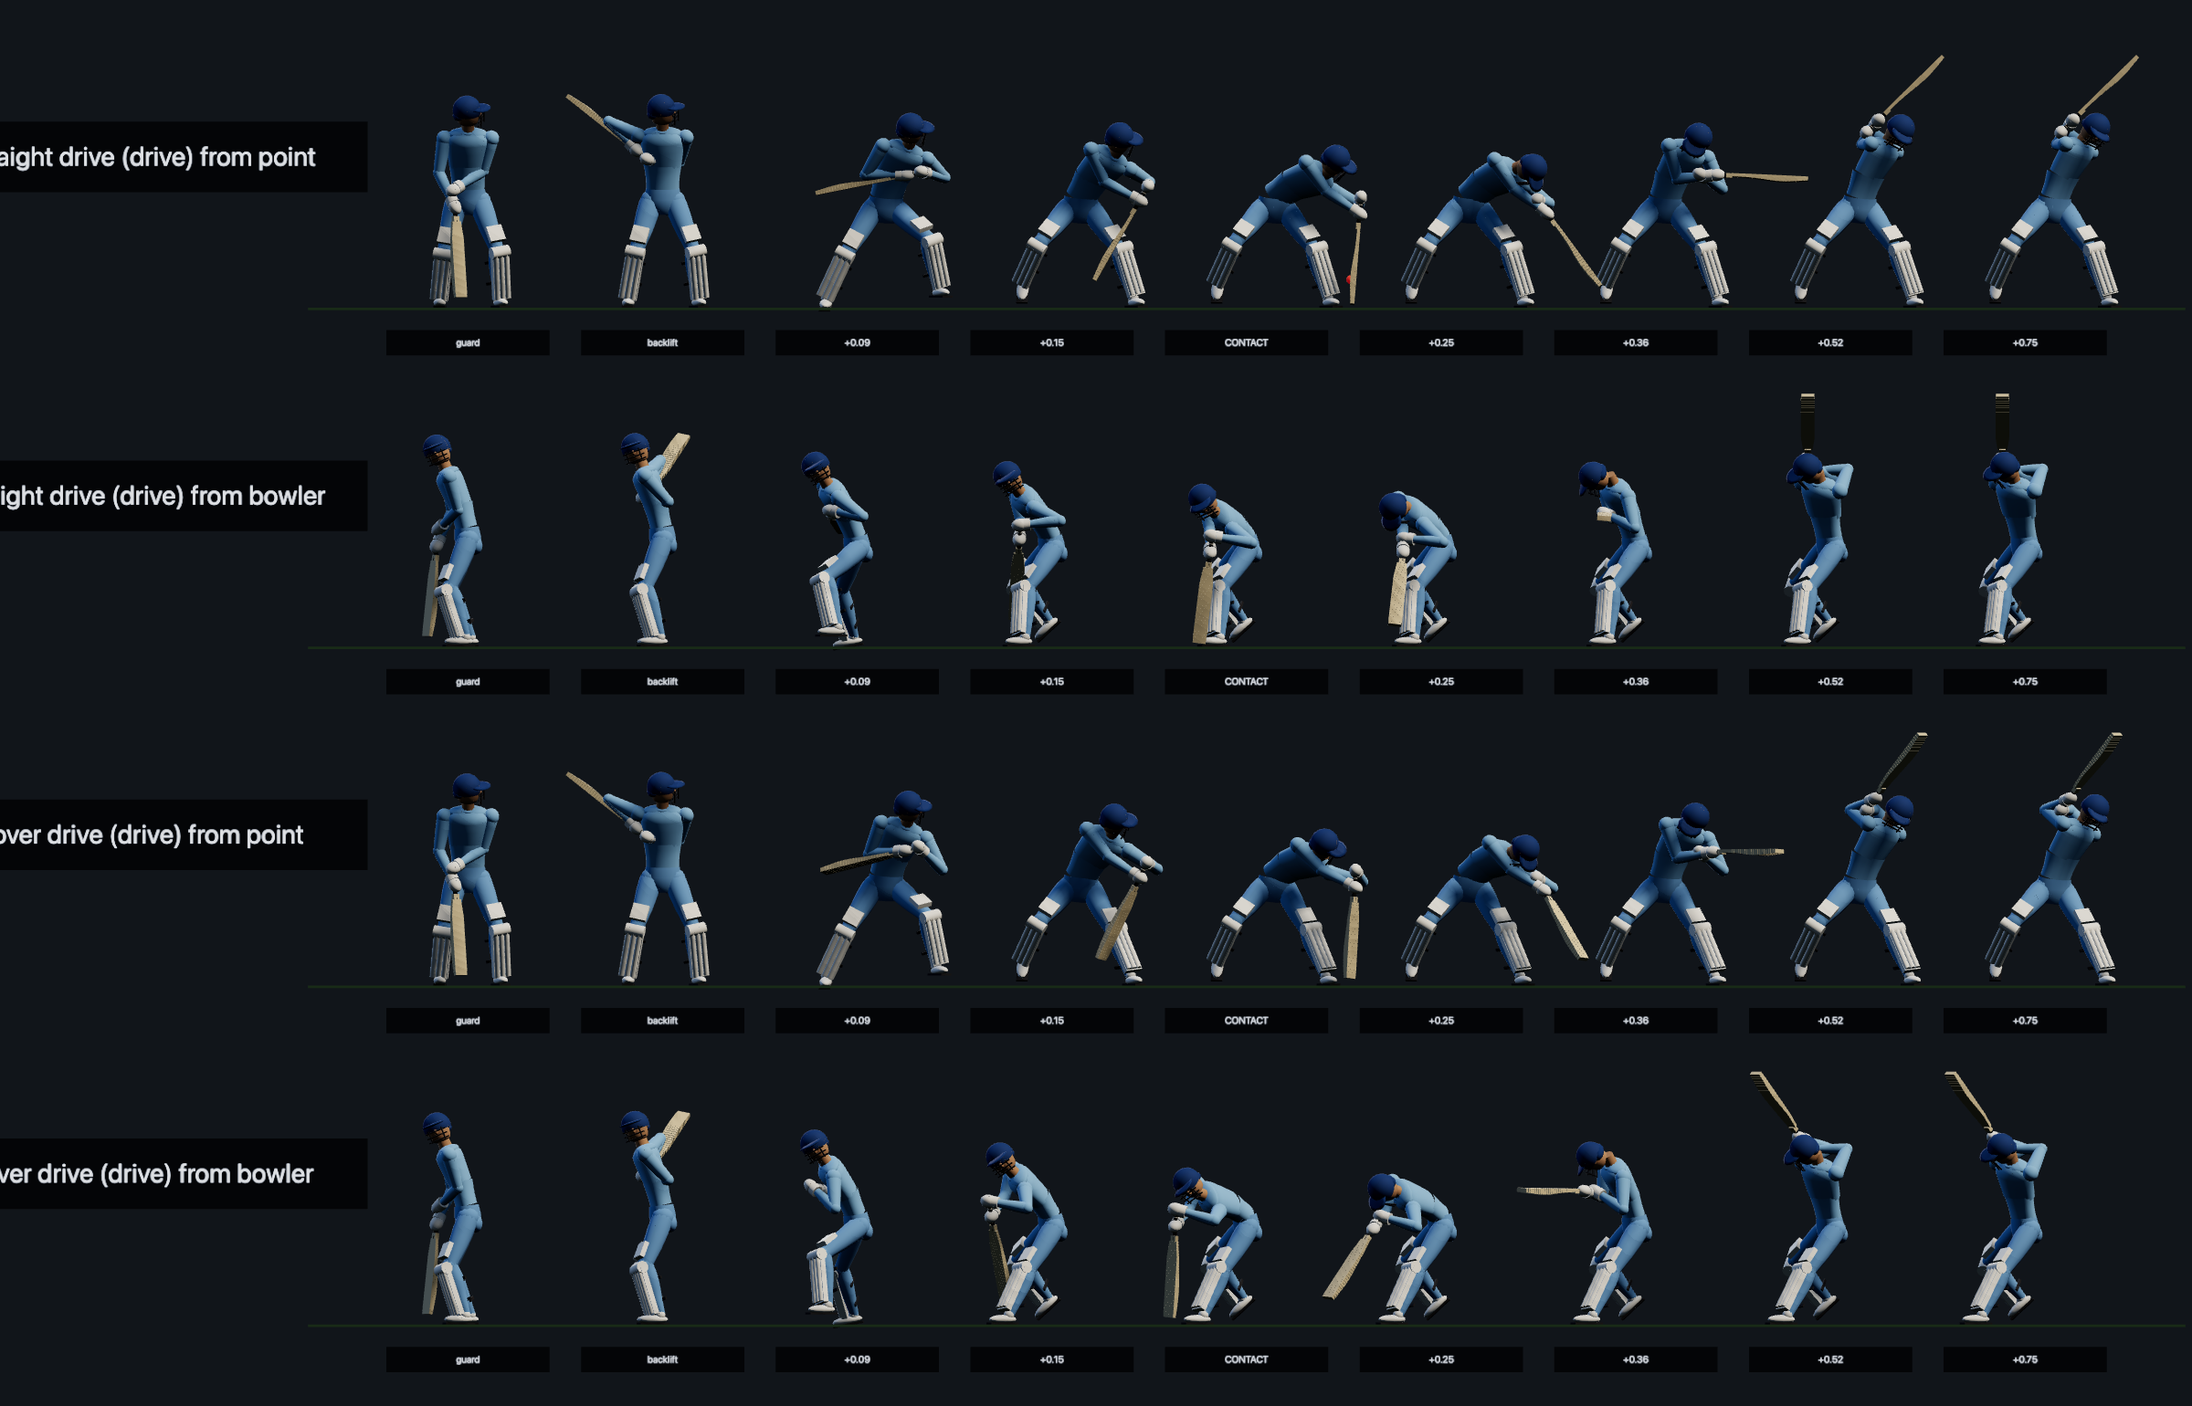
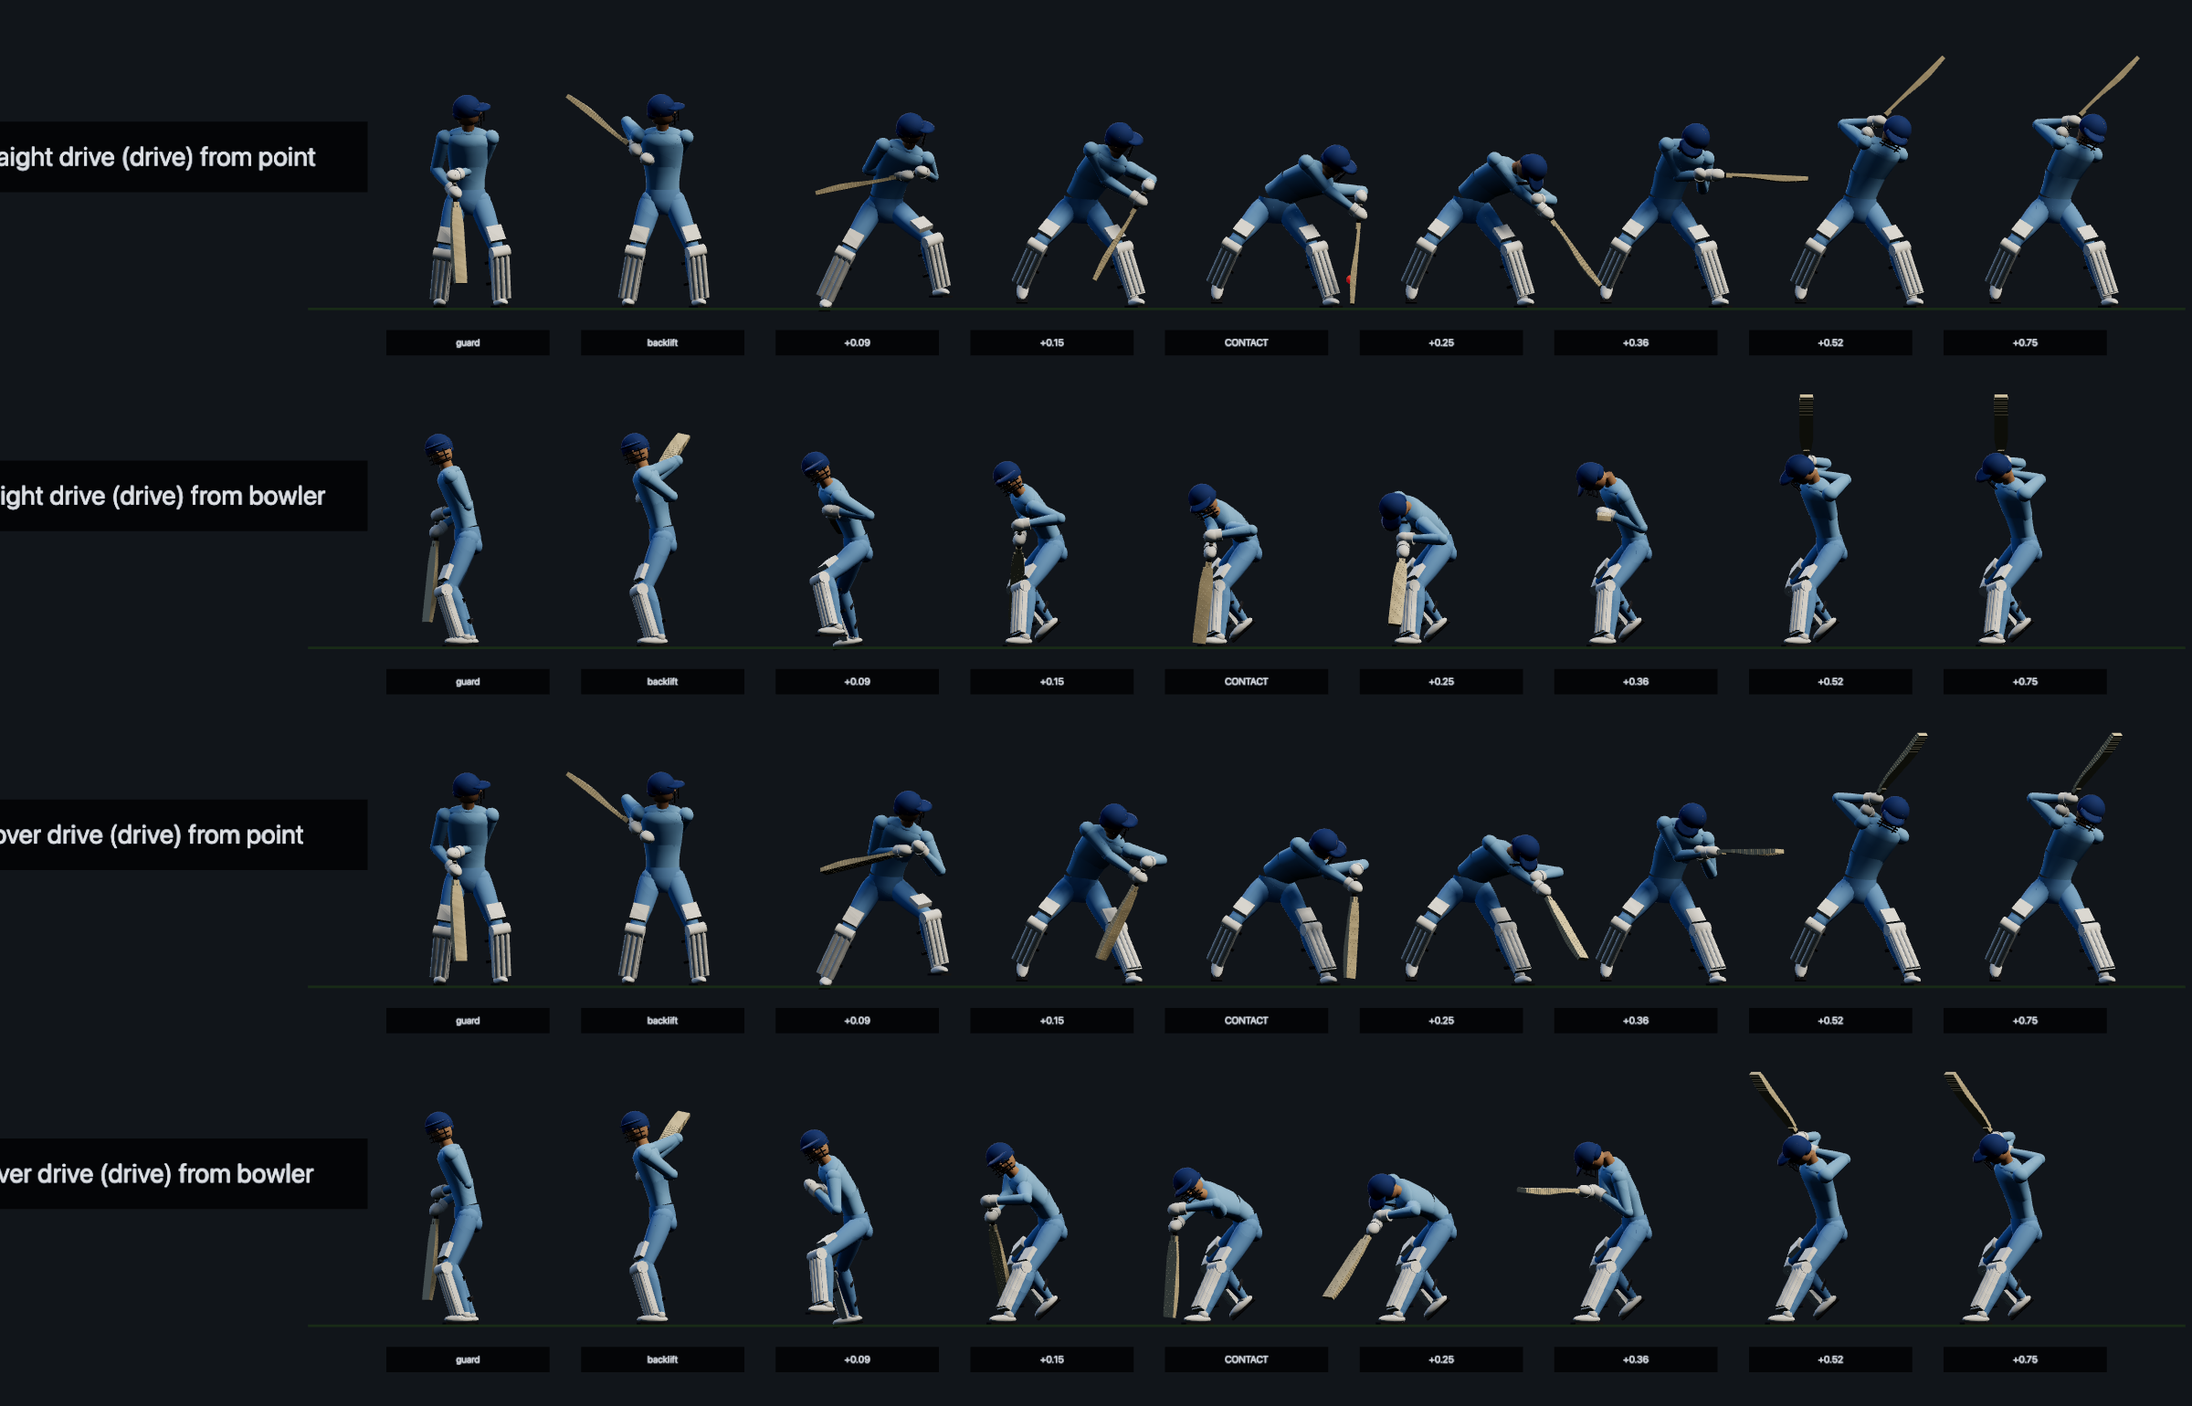
Add leg-side sweeps and scoops with constrained arm motion

diff --git a/lib/game/anim/batsman.ts b/lib/game/anim/batsman.ts
@@ -182,13 +182,20 @@ export interface ShotPlan {
   look: THREE.Vector3;
 }
 
-export type ShotShape = "drive" | "defence" | "punch" | "flick" | "pull" | "cut" | "loft";
+export type ShotShape = "drive" | "defence" | "punch" | "flick" | "pull" | "cut" | "loft" | "sweep" | "slog-sweep" | "scoop";
 
 /** Which family of stroke a plan produces. */
 export function shotShape(plan: ShotPlan): ShotShape {
   const e = plan.exitDirection;
   const high = plan.contact.y > 0.8;
   if (plan.type === "defensive") return "defence";
+  // Low, square leg-side balls need a cross-bat stroke even on the back foot.
+  // A finer aerial shot opens the face in front of the batter instead of
+  // forcing a drive to continue behind the shoulders along the exit direction.
+  if (plan.contact.y <= 0.8 && e > 0.75) {
+    return plan.type === "lofted" ? e > 1.35 ? "scoop" : "slog-sweep" : "sweep";
+  }
+  if (high && e > 0.45) return "pull";
   if (plan.footwork === "back" && high) return e > 0.2 ? "pull" : e < -0.35 ? "cut" : "punch";
   if (plan.footwork === "back") return "punch";
   if (plan.type === "lofted") return "loft";
@@ -206,6 +213,7 @@ export function shotShape(plan: ShotPlan): ShotShape {
  */
 export function shotKeys(from: Pose, plan: ShotPlan): { keys: Key[]; contactT: number; shape: ShotShape } {
   const shape = shotShape(plan);
+  if (shape === "sweep" || shape === "slog-sweep" || shape === "scoop") return sweepKeys(from, plan, shape);
   const d = exitVector(plan.exitDirection);
   const e = plan.exitDirection;
   const Tc = Math.max(0.08, plan.downswing);
@@ -223,8 +231,9 @@ export function shotKeys(from: Pose, plan: ShotPlan): { keys: Key[]; contactT: n
   // Where the feet end up for this shot.
   const feet: PoseValues = {};
   const body: PoseValues = {};
-  const legSide = Math.max(0, e);
-  const offSide = Math.max(0, -e);
+  // Exit angle includes mistiming: it must not become an unlimited spine twist.
+  const legSide = THREE.MathUtils.clamp(e, 0, 1);
+  const offSide = THREE.MathUtils.clamp(-e, 0, 1);
   if (plan.footwork === "front") {
     Object.assign(feet, {
       // Stride toward the pitch of the ball and toward its line.
@@ -251,7 +260,7 @@ export function shotKeys(from: Pose, plan: ShotPlan): { keys: Key[]; contactT: n
     Object.assign(body, {
       pelvisX: 0.14, pelvisY: -0.05, pelvisPitch: 0.08,
       pelvisYaw: shape === "pull" ? 0.95 : shape === "cut" ? -0.1 : 0.1,
-      torsoYaw: shape === "pull" ? 0.75 : shape === "cut" ? -0.35 : 0.1,
+      torsoYaw: shape === "pull" ? 0.5 : shape === "cut" ? -0.35 : 0.1,
       torsoPitch: shape === "cut" ? 0.3 : 0.15,
       torsoRoll: shape === "pull" ? 0.15 : 0,
     });
@@ -338,7 +347,7 @@ export function shotKeys(from: Pose, plan: ShotPlan): { keys: Key[]; contactT: n
       qFollow = qC.clone();
       break;
     case "pull":
-      followGrip = new THREE.Vector3(-0.05, 1.3, 0.22);
+      followGrip = new THREE.Vector3(-0.35, 1.3, -0.18);
       qFollow = new THREE.Quaternion().setFromAxisAngle(_ey, 1.3).multiply(qC);
       break;
     case "cut":
@@ -354,7 +363,7 @@ export function shotKeys(from: Pose, plan: ShotPlan): { keys: Key[]; contactT: n
       qFollow = batQuaternion(yaw, 0, 1.2);
       break;
     case "flick":
-      followGrip = new THREE.Vector3(-0.15, 1.3, 0.15);
+      followGrip = new THREE.Vector3(-0.35, 1.3, -0.18);
       qFollow = batQuaternion(yaw + 0.5, 0, 2.1);
       break;
     default:
@@ -373,8 +382,8 @@ export function shotKeys(from: Pose, plan: ShotPlan): { keys: Key[]; contactT: n
     shape === "defence"
       ? {}
       : {
-          pelvisYaw: (body.pelvisYaw as number) + 0.25,
-          torsoYaw: (body.torsoYaw as number) + 0.45,
+          pelvisYaw: Math.min(1.1, (body.pelvisYaw as number) + 0.2),
+          torsoYaw: Math.min(0.6, (body.torsoYaw as number) + 0.15),
           torsoPitch: (body.torsoPitch as number) - 0.15,
         };
 
@@ -388,6 +397,60 @@ export function shotKeys(from: Pose, plan: ShotPlan): { keys: Key[]; contactT: n
     { t: tFinish, pose: base({ ...feet, ...body, ...openFinish, ...batChannels(followGrip, qFollow), lookW: 0.4 }), hold: true },
   ];
   return { keys, contactT: Tc, shape };
+}
+
+/**
+ * Low leg-side strokes sweep the blade around the front knee. The hands stay
+ * in front of the chest; bat-face angle, not an arm reaching backwards, sends
+ * the ball fine. The scoop lifts from that same crouch; the slog finishes high.
+ */
+function sweepKeys(from: Pose, plan: ShotPlan, shape: "sweep" | "slog-sweep" | "scoop") {
+  const contactT = Math.max(0.08, plan.downswing);
+  const c = plan.contact;
+  const scoop = shape === "scoop";
+  const aerial = shape !== "sweep";
+  const body: PoseValues = {
+    pelvisX: -0.18, pelvisY: -0.24, pelvisPitch: 0.12, pelvisYaw: 0.55,
+    torsoPitch: 0.25, torsoYaw: 0.25, torsoRoll: 0.12,
+    footLX: Math.min(-0.5, c.x + 0.2), footLY: G, footLZ: -0.12, footLYaw: 0.7, footLW: 1,
+    footRX: 0.2, footRY: G + 0.09, footRZ: 0.08, footRYaw: 0.3, footRPitch: -0.7, footRW: 1,
+    lookX: plan.look.x, lookY: plan.look.y, lookZ: plan.look.z, lookW: 1,
+  };
+  const handAnchor = new THREE.Vector3(-0.34, 0.88, -0.35);
+  const face = exitVector(plan.exitDirection);
+  face.y = scoop ? 1.1 : aerial ? 0.5 : -0.12;
+  const qContact = batFromAxes(handAnchor.clone().sub(c), face);
+  const gripContact = gripForSweetSpot(c, qContact);
+  const frontGrip = new THREE.Vector3(-0.42, 1.05, -0.42);
+  const qFront = batOf(from).slerp(qContact, 0.55);
+  // Carry the blade around the front pad without dragging the handle behind it.
+  const after = c.clone().add(new THREE.Vector3(-0.08, aerial ? 0.14 : 0.02, 0.18));
+  const qAfter = batFromAxes(handAnchor.clone().sub(after), face);
+  const finishGrip = new THREE.Vector3(-0.46, aerial ? 1.18 : 0.94, aerial ? -0.38 : -0.24);
+  // Aerial strokes finish with the blade above the hands, clear of the ribs.
+  const qFinish = batFromAxes(new THREE.Vector3(scoop ? -0.15 : -0.4, aerial ? -0.75 : 0.2, -0.7), face);
+  const key = (t: number, grip: THREE.Vector3, q: THREE.Quaternion, weight: number, finish = false): Key => {
+    const pose = copyPose(makePose(), from);
+    // Ease the whole body down with the hands, rather than snapping into a kneel.
+    for (const [name, value] of Object.entries(body)) {
+      const channel = C[name as keyof typeof C];
+      pose[channel] = lerp(from[channel], value as number, weight);
+    }
+    if (finish) setPose(pose, { pelvisYaw: 0.85, torsoYaw: 0.4, lookW: 0.6 });
+    setPose(pose, batChannels(grip, q));
+    return { t, pose };
+  };
+  const follow = contactT + (scoop ? 0.38 : 0.32);
+  const finish = key(follow, finishGrip, qFinish, 1, true);
+  return { shape, contactT, keys: [
+    { t: 0, pose: copyPose(makePose(), from) },
+    key(contactT * 0.48, frontGrip, qFront, 0.55),
+    key(contactT * 0.82, frontGrip.clone().lerp(gripContact, 0.7), qFront.clone().slerp(qContact, 0.7), 0.9),
+    key(contactT, gripContact, qContact, 1),
+    key(contactT + 0.08, gripForSweetSpot(after, qAfter), qAfter, 1),
+    finish,
+    { t: follow + 0.4, pose: copyPose(makePose(), finish.pose), hold: true },
+  ] };
 }
 
 /**
@@ -407,12 +470,29 @@ export function fitToBall(rig: PlayerRig, keys: Key[], contactT: number, contact
   const shifted = [at - 1, at, at + 1].filter((i) => i > 0 && i < keys.length);
   const sweet = new THREE.Vector3();
   let gap = Infinity;
-  for (let iter = 0; iter < 5; iter++) {
+  for (let iter = 0; iter < 12; iter++) {
     applyPose(rig, keys[at].pose);
     sweetSpot(rig, sweet);
     const err = sweet.sub(contact);
     gap = err.length();
     if (gap < 0.02) break;
+    // If a requested handle position lies behind the chest, the arm solver
+    // brings it forward. Re-angle the blade around that reachable grip rather
+    // than asking the spine to twist backwards to restore contact.
+    const oldQ = batOf(keys[at].pose);
+    const actualGrip = rig.bat!.position.clone().addScaledVector(new THREE.Vector3(0, 1, 0).applyQuaternion(rig.bat!.quaternion), GRIP_TOP);
+    const requestedGrip = new THREE.Vector3(keys[at].pose[C.gripX], keys[at].pose[C.gripY], keys[at].pose[C.gripZ]);
+    if (iter >= 3 && actualGrip.distanceTo(requestedGrip) > 0.04) {
+      const q = batFromAxes(actualGrip.sub(contact), new THREE.Vector3(0, 0, -1).applyQuaternion(oldQ));
+      const grip = gripForSweetSpot(contact, q);
+      const delta = grip.clone().sub(requestedGrip);
+      for (const i of shifted) {
+        const p = keys[i].pose;
+        const weight = i === at ? 1 : 0.6;
+        const adjusted = new THREE.Vector3(p[C.gripX], p[C.gripY], p[C.gripZ]).addScaledVector(delta, weight);
+        setPose(p, batChannels(adjusted, batOf(p).slerp(q, weight)));
+      }
+    }
     for (const i of shifted) {
       const p = keys[i].pose;
       // Near keys follow fully; the one before contact half-way, so the hips

diff --git a/lib/game/anim/controllers.test.ts b/lib/game/anim/controllers.test.ts
@@ -3,7 +3,7 @@ import { describe, expect, it } from "vitest";
 import { BATTING_KIT, FIELDING_KIT, makePlayer } from "../assets/kit";
 import type { Footwork, ShotType } from "../input/bindings";
 import { applyPose, C, makePose, sweetSpot } from "./pose";
-import { BatsmanAnimator, CONTACT_X, readyBatPose } from "./batsman";
+import { BatsmanAnimator, CONTACT_X, readyBatPose, shotShape } from "./batsman";
 import { APPROACH, deliveryOrigin, simulateRelease } from "./bowler";
 import { FielderAnimator, SPRINT } from "./fielder";
 import { RunnerAnimator } from "./runner";
@@ -33,6 +33,51 @@ function batsmanInBacklift(footwork: Footwork): BatsmanAnimator {
 }
 
 describe("BatsmanAnimator", () => {
+  it("selects low leg-side strokes without replacing high pulls or straight drives", () => {
+    const plan = { type: "ground" as const, footwork: "front" as const, contact: new THREE.Vector3(-0.8, 0.3, 0.1), exitDirection: 1.1, downswing: 0.18, look: new THREE.Vector3() };
+    expect(shotShape(plan)).toBe("sweep");
+    expect(shotShape({ ...plan, type: "lofted" })).toBe("slog-sweep");
+    expect(shotShape({ ...plan, type: "lofted", exitDirection: 1.7 })).toBe("scoop");
+    expect(shotShape({ ...plan, type: "defensive" })).toBe("defence");
+    expect(shotShape({ ...plan, exitDirection: 0 })).toBe("drive");
+    expect(shotShape({ ...plan, footwork: "back", contact: new THREE.Vector3(-0.16, 1.1, 0.1) })).toBe("pull");
+  });
+
+  it("keeps leg-side strokes reachable and both hands in front of the shoulders through the follow-through", () => {
+    const player = makePlayer({ role: "batsman", colours: BATTING_KIT });
+    for (const footwork of ["front", "back"] as const) {
+      for (const type of ["ground", "lofted"] as const) {
+        for (const exitDirection of [0.6, 1.05, 1.7, 2.1]) {
+          for (const height of [0.25, 0.65, 1.1]) {
+            const b = batsmanInBacklift(footwork);
+            const contact = new THREE.Vector3(CONTACT_X[footwork], height, 0.1);
+            b.play({ type, footwork, contact, exitDirection, downswing: 0.18, look: contact }, player);
+            applyPose(player, b.contactPose(makePose()));
+            const scenario = `${b.shape} ${footwork} ${height} ${exitDirection}`;
+            expect(sweetSpot(player).distanceTo(contact), scenario).toBeLessThan(0.06);
+            // Sample the solved rig, not just authored keys: IK and interpolation
+            // must not put either glove behind the shoulder plane mid-swing.
+            let previousHands: THREE.Vector3[] | null = null;
+            for (let i = 0; i < 100; i++) {
+              b.update(1 / 120);
+              applyPose(player, b.pose);
+              const hands = [player.handL, player.handR].map(hand => hand.getWorldPosition(new THREE.Vector3()));
+              if (previousHands) hands.forEach((hand, index) => {
+                expect(hand.distanceTo(previousHands![index]), `${scenario} glove jump`).toBeLessThan(0.18);
+              });
+              previousHands = hands;
+              if (b.shotTime < b.contactT) continue;
+              for (const hand of [player.handL, player.handR]) {
+                const local = player.chest.worldToLocal(hand.getWorldPosition(new THREE.Vector3()));
+                expect(local.z, `${scenario} at ${b.shotTime}`).toBeLessThan(0.12);
+              }
+              expect(Math.abs(b.pose[C.torsoYaw]), scenario).toBeLessThanOrEqual(0.61);
+            }
+          }
+        }
+      }
+    }
+  });
   it("lifts and grounds the bat repeatedly, then stops tapping for the delivery", () => {
     const sample = (time: number, trigger = 0) => readyBatPose(makePose(), {
       time, trigger, footwork: 0, lift: 0, look: new THREE.Vector3(-18, 1.8, 0),

diff --git a/lib/game/anim/pose.ts b/lib/game/anim/pose.ts
@@ -394,6 +394,8 @@ function solveBat(rig: PlayerRig, p: Pose, w: number) {
   const sL = pointToRoot(rig.shoulderL, root, _a.set(0, 0, 0), new THREE.Vector3());
   const sR = pointToRoot(rig.shoulderR, root, _a.set(0, 0, 0), new THREE.Vector3());
   const mid = sL.clone().add(sR).multiplyScalar(0.5);
+  const chestRotation = quatToRoot(rig.chest, root, new THREE.Quaternion());
+  const forward = new THREE.Vector3(0, 0, -1).applyQuaternion(chestRotation);
 
   if (p[C.batOneHand] > 0.5) {
     // Carried: the right fist on the handle, the left arm free to swing.
@@ -404,6 +406,10 @@ function solveBat(rig: PlayerRig, p: Pose, w: number) {
   }
 
   for (let i = 0; i < 20; i++) {
+    // Reach alone admits targets through the torso. Allow a little shoulder
+    // extension, but never let either glove wrap behind the back mid-swing.
+    const depth = grip.dot(forward) - mid.dot(forward) - Math.max(0, GRIP_GAP * up.dot(forward));
+    if (depth < -0.06) grip.addScaledVector(forward, -0.06 - depth);
     bottom.copy(grip).addScaledVector(up, -GRIP_GAP);
     if (sL.distanceTo(grip) <= reach && sR.distanceTo(bottom) <= reach) break;
     grip.lerp(mid, 0.08);
@@ -413,8 +419,10 @@ function solveBat(rig: PlayerRig, p: Pose, w: number) {
   bat.quaternion.copy(_qBat);
   bat.position.copy(grip).addScaledVector(up, -GRIP_TOP);
 
-  solveArm(rig, -1, grip, POLE_TOP_ELBOW, w);
-  solveArm(rig, 1, bottom, POLE_BOTTOM_ELBOW, w);
+  // Elbow bend directions belong to the chest, not the pitch. Keeping them
+  // fixed in root space made the elbows flip as a leg-side stroke opened up.
+  solveArm(rig, -1, grip, POLE_TOP_ELBOW.clone().applyQuaternion(chestRotation), w);
+  solveArm(rig, 1, bottom, POLE_BOTTOM_ELBOW.clone().applyQuaternion(chestRotation), w);
 }
 
 const _axis = new THREE.Vector3();

diff --git a/lib/game/anim/sheets.ts b/lib/game/anim/sheets.ts
@@ -274,7 +274,10 @@ type ShotCase = {
 const SHOTS: ShotCase[] = [
   { name: "straight drive", footwork: "front", type: "ground", exit: 0, contact: [-0.82, 0.22, -0.35] },
   { name: "cover drive", footwork: "front", type: "ground", exit: -0.75, contact: [-0.8, 0.25, -0.58] },
-  { name: "flick to leg", footwork: "front", type: "ground", exit: 0.85, contact: [-0.74, 0.3, -0.18] },
+  { name: "flick to leg", footwork: "front", type: "ground", exit: 0.6, contact: [-0.74, 0.3, -0.18] },
+  { name: "sweep to square leg", footwork: "front", type: "ground", exit: 1.1, contact: [-0.8, 0.25, 0.1] },
+  { name: "slog sweep", footwork: "front", type: "lofted", exit: 1.2, contact: [-0.8, 0.4, 0.1] },
+  { name: "scoop to fine leg", footwork: "back", type: "lofted", exit: 1.7, contact: [-0.16, 0.4, 0.1] },
   { name: "forward defence", footwork: "front", type: "defensive", exit: 0.05, contact: [-0.7, 0.3, -0.34] },
   { name: "lofted drive", footwork: "front", type: "lofted", exit: 0.05, contact: [-0.84, 0.3, -0.36] },
   { name: "back-foot punch", footwork: "back", type: "ground", exit: -0.4, contact: [-0.2, 0.72, -0.45] },
